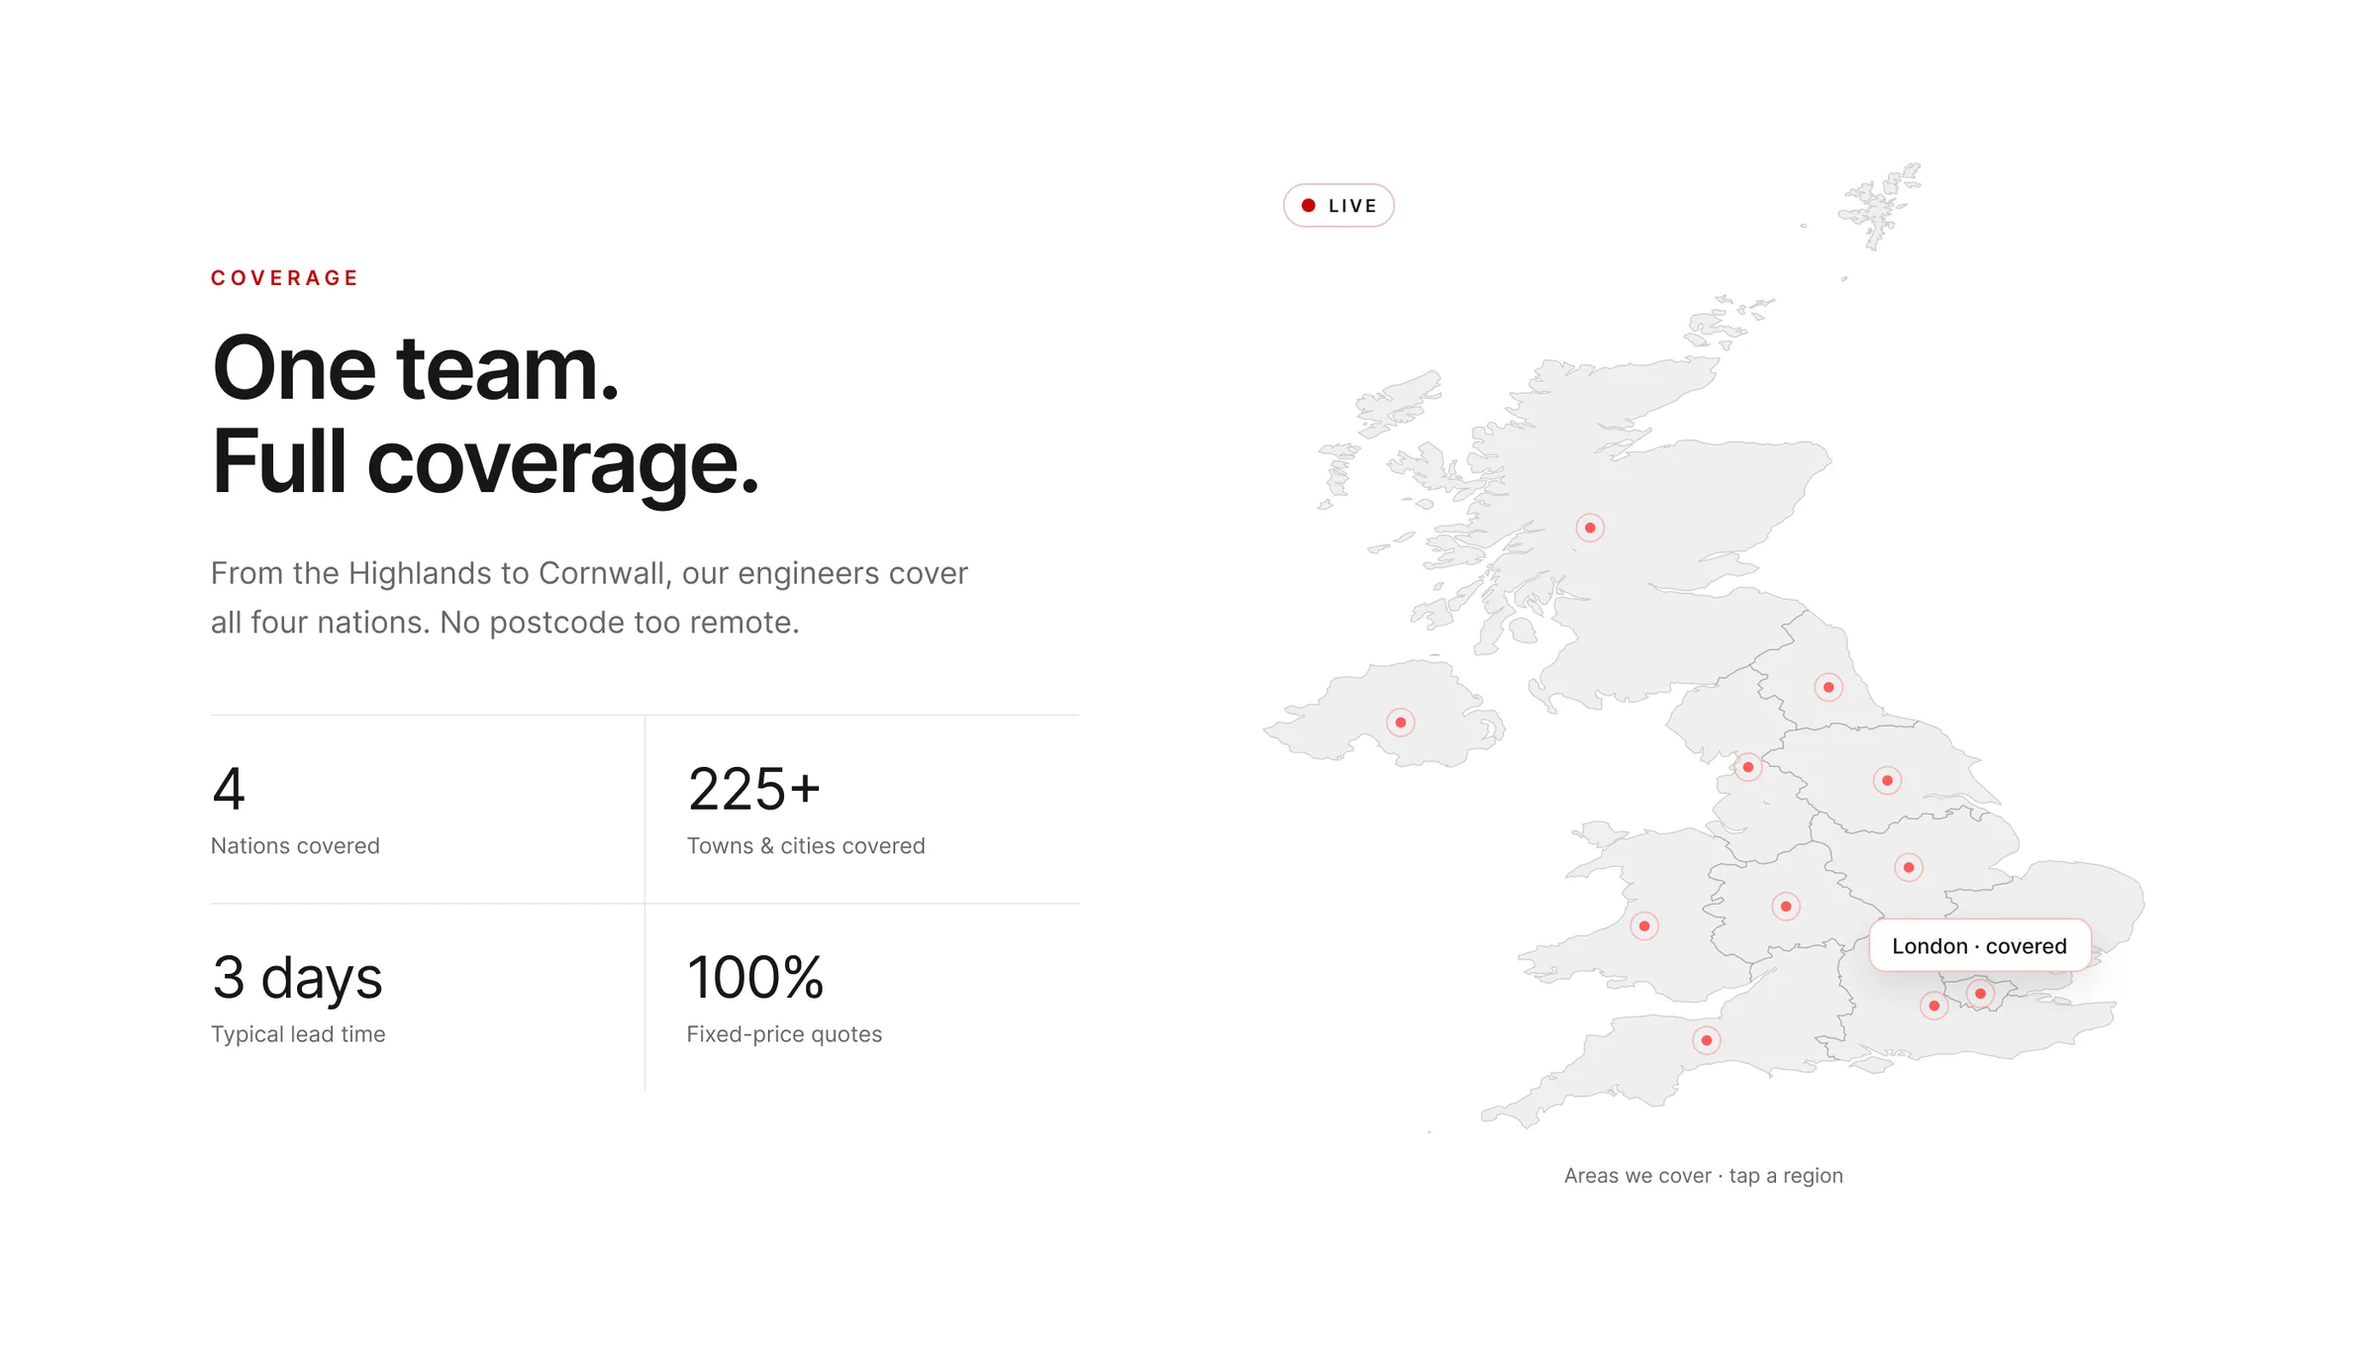
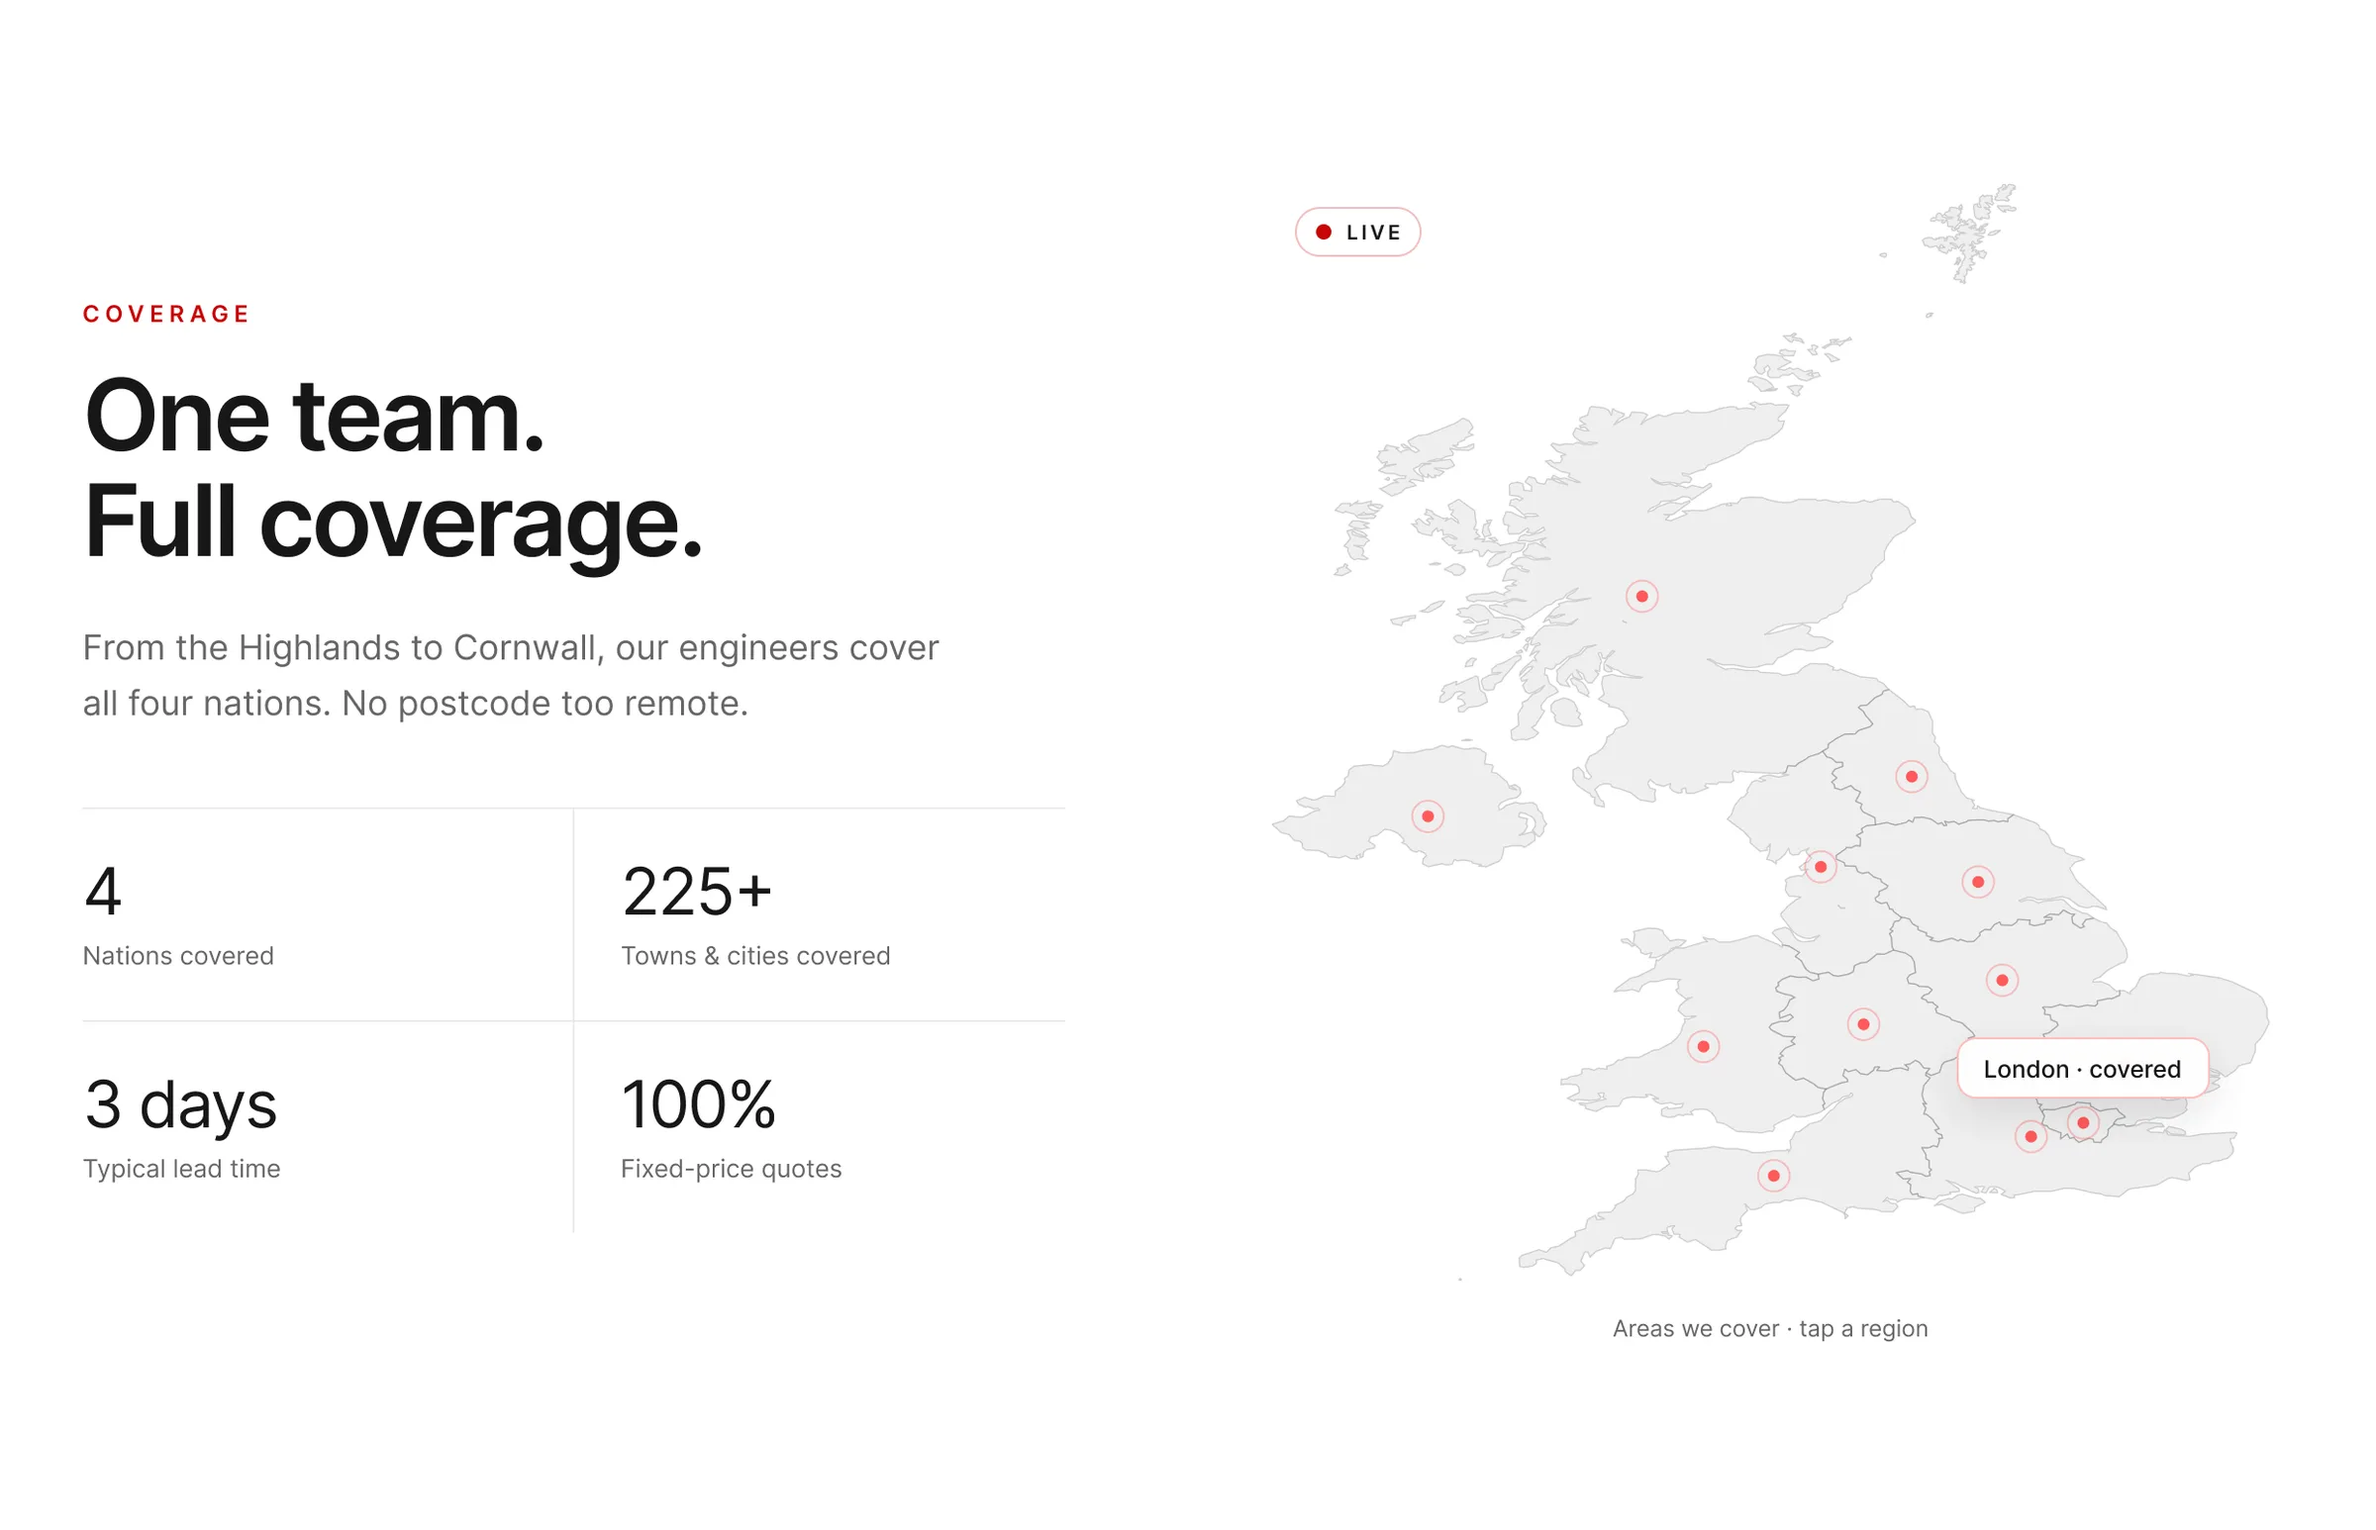
InstallPros UK: match after images to their before aspect ratios
Coverage cropped to the old map's ratio, mobile extended through the
trust bar, final step widened with a blurred background so the paired
captions sit on the same line.

diff --git a/components/case-study/installpros-uk/copy.ts b/components/case-study/installpros-uk/copy.ts
@@ -21,11 +21,11 @@ export const SHOT = {
   heatmapMap: { src: `${IMG}/source-heatmap-coverage-map.webp`, width: 1000, height: 703 },
   beforePaperform: { src: `${IMG}/before-desktop-phone.webp`, width: 1100, height: 709 },
   beforeMobile: { src: `${IMG}/before-mobile.webp`, width: 700, height: 1199 },
-  afterMobile: { src: `${IMG}/after-mobile.webp`, width: 998, height: 1582 },
+  afterMobile: { src: `${IMG}/after-mobile.webp`, width: 998, height: 1709 },
   beforeConsent: { src: `${IMG}/before-consent.webp`, width: 1142, height: 436 },
-  afterFinalStep: { src: `${IMG}/after-final-step.webp`, width: 962, height: 436 },
+  afterFinalStep: { src: `${IMG}/after-final-step.webp`, width: 1142, height: 436 },
   beforeMap: { src: `${IMG}/before-map.webp`, width: 2600, height: 1675 },
-  afterCoverage: { src: `${IMG}/after-coverage-section.webp`, width: 2400, height: 1368 },
+  afterCoverage: { src: `${IMG}/after-coverage-section.webp`, width: 2400, height: 1546 },
   afterSpeed: { src: `${IMG}/after-speed-comparison.webp`, width: 2400, height: 1603 },
   psiBefore: { src: `${IMG}/psi-before-mobile.webp`, width: 1400, height: 1089 },
   psiAfter: { src: `${IMG}/psi-after-mobile.webp`, width: 1400, height: 1102 }
